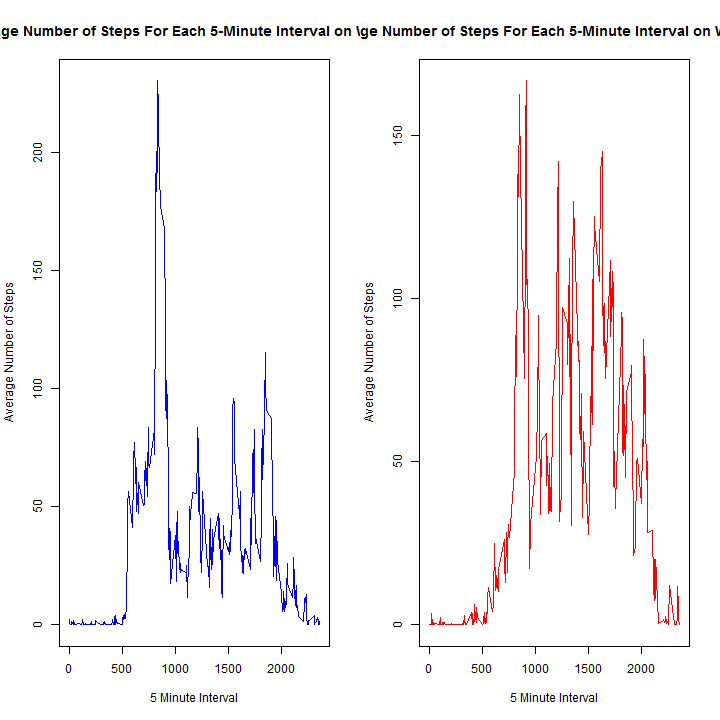
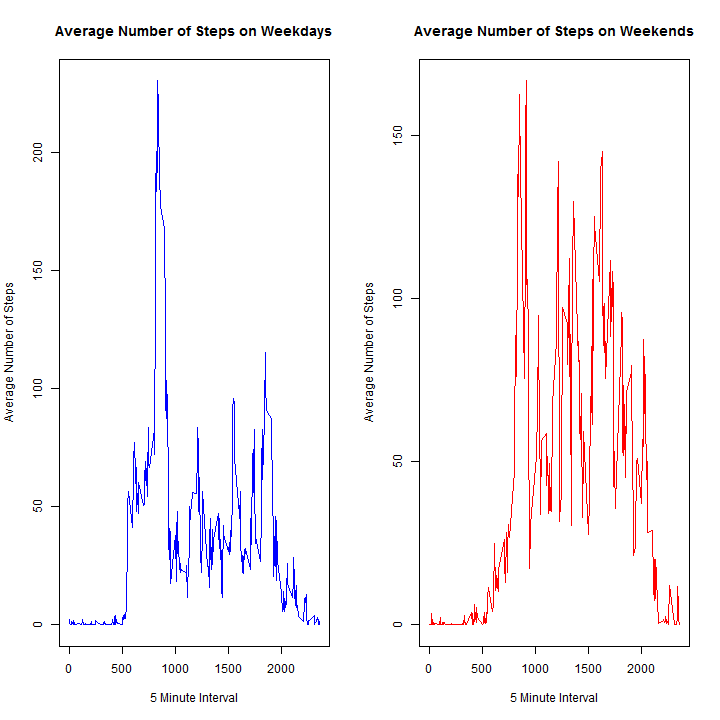
Project1

Changed region(s): [[0.0, 0.0306, 1.0, 0.0611]]

diff --git a/PA1_template.html b/PA1_template.html
@@ -378,11 +378,11 @@ aggdata5 &lt;- aggdata3[aggdata3$type==&quot;weekend&quot;,]
 </code></pre>
 
 <pre><code class="r">par(mfrow=c(1,2))
-plot(aggdata4$interval,aggdata4$steps,type=&quot;l&quot;,main=&quot;Average Number of Steps For Each 5-Minute Interval on Weekdays&quot;,xlab=&quot;5 Minute Interval&quot;,ylab=&quot;Average Number of Steps&quot;,col=&quot;blue&quot;)
-plot(aggdata5$interval,aggdata5$steps,type=&quot;l&quot;,xlab=&quot;5 Minute Interval&quot;,ylab=&quot;Average Number of Steps&quot;,main=&quot;Average Number of Steps For Each 5-Minute Interval on Weekends&quot;, col=&quot;red&quot;)
+plot(aggdata4$interval,aggdata4$steps,type=&quot;l&quot;,main=&quot;Average Number of Steps on Weekdays&quot;,xlab=&quot;5 Minute Interval&quot;,ylab=&quot;Average Number of Steps&quot;,col=&quot;blue&quot;)
+plot(aggdata5$interval,aggdata5$steps,type=&quot;l&quot;,xlab=&quot;5 Minute Interval&quot;,ylab=&quot;Average Number of Steps&quot;,main=&quot;Average Number of Steps on Weekends&quot;, col=&quot;red&quot;)
 </code></pre>
 
[2 lines of base64/hex data omitted]
 
 <p>From this plot, we can see that the individual was most active in the morning leading up to 9am (900 on the x-axis) on weekdays and was more idle during the daytime.  However, on weekends, the individual was active in the morning as well as the afternoon and even into the evening up to about 8pm (2000 on the x-axis).</p>
 

diff --git a/PA1_template.md b/PA1_template.md
@@ -227,8 +227,8 @@ aggdata5 <- aggdata3[aggdata3$type=="weekend",]
 
 ```r
 par(mfrow=c(1,2))
-plot(aggdata4$interval,aggdata4$steps,type="l",main="Average Number of Steps For Each 5-Minute Interval on Weekdays",xlab="5 Minute Interval",ylab="Average Number of Steps",col="blue")
-plot(aggdata5$interval,aggdata5$steps,type="l",xlab="5 Minute Interval",ylab="Average Number of Steps",main="Average Number of Steps For Each 5-Minute Interval on Weekends", col="red")
+plot(aggdata4$interval,aggdata4$steps,type="l",main="Average Number of Steps on Weekdays",xlab="5 Minute Interval",ylab="Average Number of Steps",col="blue")
+plot(aggdata5$interval,aggdata5$steps,type="l",xlab="5 Minute Interval",ylab="Average Number of Steps",main="Average Number of Steps on Weekends", col="red")
 ```
 
 ![plot of chunk graph chunk](figure/graph chunk.png) 
